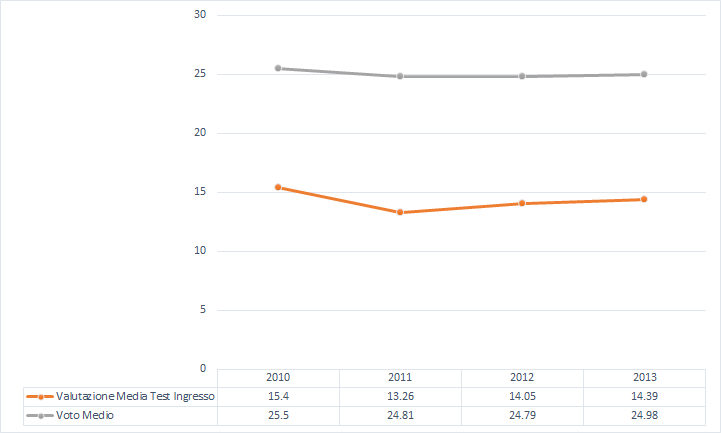
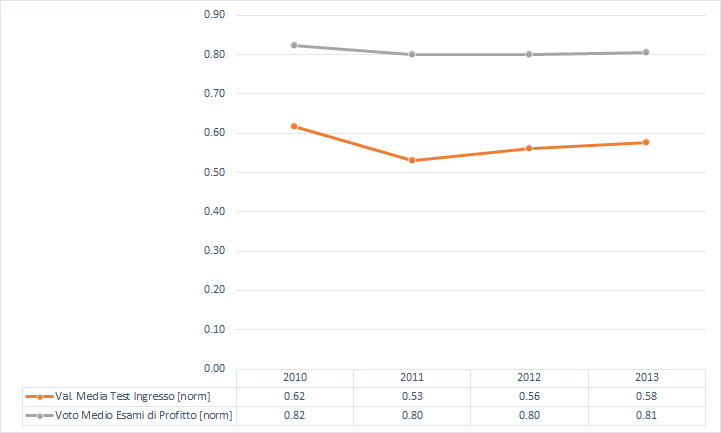
Proigress with visual

diff --git a/thesis/src/visual.tex b/thesis/src/visual.tex
@@ -23,11 +23,79 @@ A.A. & Val. Media & Std. Dev. Media & \% Val. Suff. & N. Val. \\ \hline
 \end{tabular}
 \end{table}
 
-    \subsection{Panoramica generale sul Data Set}
+    \subsection{Panoramica Generale sulle Valutazioni dei Corsi}
+    \label{visual:eval_gen}
+
+    Per inquadrare subito la situazione e mettere a fuoco con un singolo colpo d'occhio le caratteristiche di ogni Anno Accademico, è stato realizzato l'istogramma mostrato in Figura \ref{eval_gen}. \\
+
+    Come si può facilmente verificare con una rapida osservazione del grafico, l'unico attributo che varia sensibilmente è il numero medio di valutazioni dei corsi registrate. Si nota inoltre che esso ha una tendenza a crescere all'avanzare dell'Anno Accademico. Per quanto riguarda gli altri attributi, rimangono sostanzialmente simili fra tutti gli Anni Accademici, fatta eccezione per la percentuale di valutazioni sufficienti registrata nell'Anno Accademico 2010-2011, leggermente inferiore rispetto agli altri. \\
 
     \begin{figure}
         \centering
-        \caption{istogramma mostrante una panoramica generale su tutti gli attributi generali del dataset descritto in Sezione \ref{prepr:eval_min}}
+        \caption{istogramma mostrante una panoramica generale su tutti gli attributi del dataset descritto in Sezione \ref{prepr:eval_min}}
         \label{eval_gen}
         \includegraphics[scale=0.55]{../visual/eval_3.png}
     \end{figure}
+
+    \subsection{Dettaglio sulla Percentuale di Valutazioni Sufficienti}
+
+    Volendo vedere con un maggior livello di dettaglio l'andamento di quest'ultimo aspetto, è stato realizzato un grafico mostrante l'attributo "percentuale di valutazioni sufficienti" come serie storica attraverso tutti gli Anni Accademici di cui si hanno a disposizione informazioni. Tale grafico, mostrato in Figura \ref{eval_p}, mostra con maggiore chiarezza quanto si è osservato sull'istogramma generale di Figura \ref{eval_gen}. \\
+
+    \begin{figure}
+        \centering
+        \caption{serie storica dell'attributo "percentuale di valutazioni sufficienti" attraverso gli Anni Accademici coperti dal data set delle valutazioni dei corsi}
+        \label{eval_p}
+        \includegraphics[scale=0.56]{../visual/eval_2.png}
+    \end{figure}
+
+\section{Produttività degli Studenti}
+
+    Riguardo ai dati relativi alla produttività degli studenti, il dataset su cui si è lavorato è quello descritto nella Sezione \ref{prepr:stud_min}, che è già stato riportato nella sua interezza in tale sede ma, data la sua piccola dimensione, è comunque ripetuto di seguito per comodità di consultazione. \\
+
+    \begin{tabular}{llllll}
+		\hline
+		Coorte & N. & Laureati {[}\%{]} & Test Ingresso & Voto & Ritardo \\ \hline
+		2010 & 30 & 6.67 & 15.4 & 25.5 & 0.81 \\
+		2011 & 39 & 10.26 & 13.26 & 24.81 & 1.07 \\
+		2012 & 58 & 25.86 & 14.05 & 24.79 & 1.01 \\
+		2013 & 80 & 11.25 & 14.39 & 24.98 & 0.77 \\ \hline
+	\end{tabular}
+
+    \subsection{Panoramica generale sulla Produttività degli Studenti}
+
+    Per quanto riguarda una preliminare analisi generale dell'intero data set, restano valide le considerazioni espresse in Sezione \ref{visual:eval_gen}. Pertanto, è stato generato un istogramma del tutto analogo a quanto fatto tale Sezione, mostrato in Figura \ref{stud_gen}. \\
+
+    In seguito a una analisi visiva del grafico, si può notare come gli attributi che più variano sono il numero di studenti imatricolati in una data coorte e la percentuale di studenti laureati entro la fine del periodo in esame. L'andamento degli studenti immatricolati è considerevolmente simile a quello riscontrato sul numero di valutazione dei corsi registrate, quindi è plausibile supporre una certa correlazione diretta fra i due attributi --- piuttosto banalmente, se ci sono più studenti iscritti, perverranno anche più valutazioni dei corsi.
+
+    \begin{figure}
+        \centering
+        \caption{istogramma mostrante una panoramica generale su tutti gli attributi generali del dataset descritto in Sezione \ref{prepr:stud_min}}
+        \label{stud_gen}
+        \includegraphics[scale=0.50]{../visual/stud_1.png}
+    \end{figure}
+
+    \subsection{Relazione fra Test di Ingresso, Voto Medio e Ritardo}
+
+    Un aspetto curioso sul quale si è voluto fare luce è l'esistenza o meno di una qualche correlazione fra il risutlato conseguito nel test di ingresso e le valutazioni ottenute nei successivi esami di profitto. Avendo a disposizione in questa sede entrambi gli attributi in forma aggregata, è stato realizzato il grafico di Figura \ref{test}. \\
+
+    Si noti che gli attributi considerati non esprimono valori nella stessa scala: il test di ingresso prevede un punteggio massimo di 25, mentre per gli esami di profitto il punteggio massimo previsto è di 31 punti (con il 31 a rappresentare in realtà in 30 con lode). C'è stato perciò bisogno di effettuare una \textit{normalizzazione} di tali attributi, per poterli confrontare direttamente. \\
+
+    \begin{figure}
+        \centering
+        \caption{serie temporale mostrante i valori degli attributi normalizzati "voto medio" e "valutazione media al test di ingresso"}
+        \label{test}
+        \includegraphics[scale=0.45]{../visual/stud_2.png}
+    \end{figure}
+
+    Come si può vedere, pare esserci una correlazione estremamente blanda, ma non risulta così significativa da essere presa in considerazione per ulteriori approfondimenti. Inoltre, si può notare un \textit{offset} abbastanza pronunciato fra i due attributi; concedendoci una speculazione, potrebbe essere dato da un minor impegno degli studenti nel test di ingresso dato dalla sua soglia di sufficienza molto bassa --- 12 punti su 25 --- e dal fatto che il risultato in tale test non impatta in alcun modo la futura carriera accademica. \\
+
+    \begin{figure}
+        \centering
+        \caption{serie temporale mostrante l'andamento dell'attributo "ritardo medio" relativo al superamento degli esami di profitto}
+        \label{ritardo}
+        \includegraphics[scale=0.45]{../visual/stud_3.png}
+    \end{figure}
+
+    La curiosa flessione della valutazione al test di ingresso fra la coorte di studenti immatricolati nel 2011 trova un riscontro nell'andamento del ritardo medio con cui sono stati superati gli esami di profitto rispetto al loro primo appello, come si può vedere dalla Figura \ref{ritardo}. Comunque, si tratta di una correlazione abbastanza debole, pertanto è stato scelto di limitarsi a notarla, senza proseguire nell'analisi. \\
+
+    percentuale laureati

diff --git a/thesis/src/prepr.tex b/thesis/src/prepr.tex
@@ -94,6 +94,7 @@ Nell'illustrare i vari procedimenti, per favorire una spiegazione lineare e il p
 	Si comincia intanto con l'ottenere dei data set \textit{minimali}, uno per le valutazioni dei corsi, l'altro per la produttività degli studenti, condensando in essi le informazioni principali contenute in quello delle prestazioni degli studenti in pochi parametri relativi ad un certo anno accademico. \\
 
 	\subsection{Produttività degli Studenti}
+	\label{prepr:stud_min}
 
 		L'obiettivo è sintetizzare le informazioni sulla produttività degli studenti nei seguenti attributi:
 

diff --git a/thesis/src/fine.tex b/thesis/src/fine.tex
@@ -1,4 +1,4 @@
-\chapter{Conclusioni}
+\chapter{Conclusioni e Futuri Sviluppi}
 \label{ch:fine}
 
 \cite{articolo} perché se no manca
